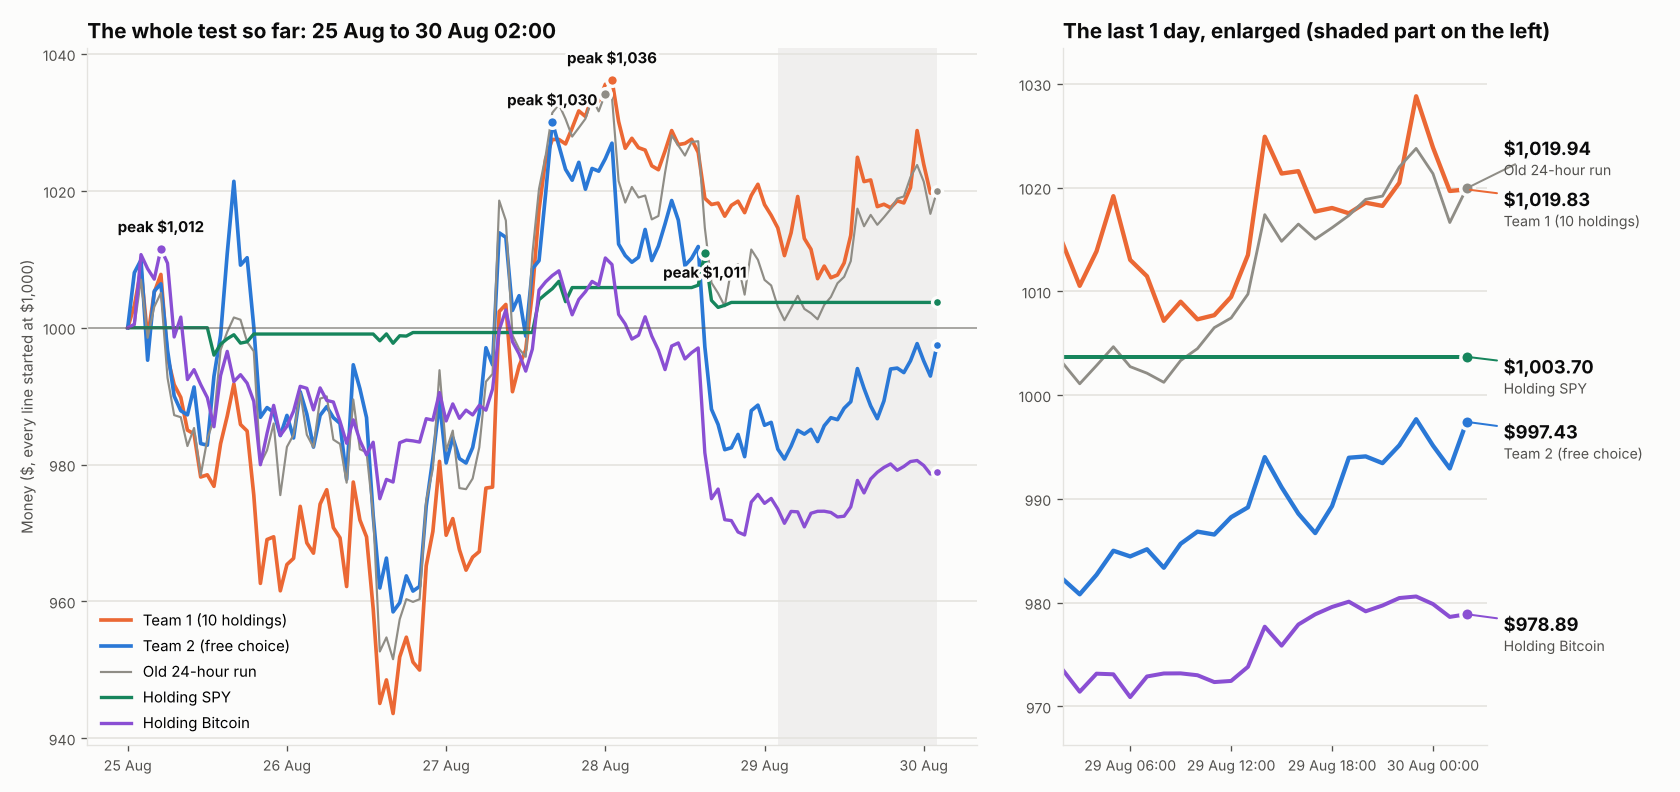
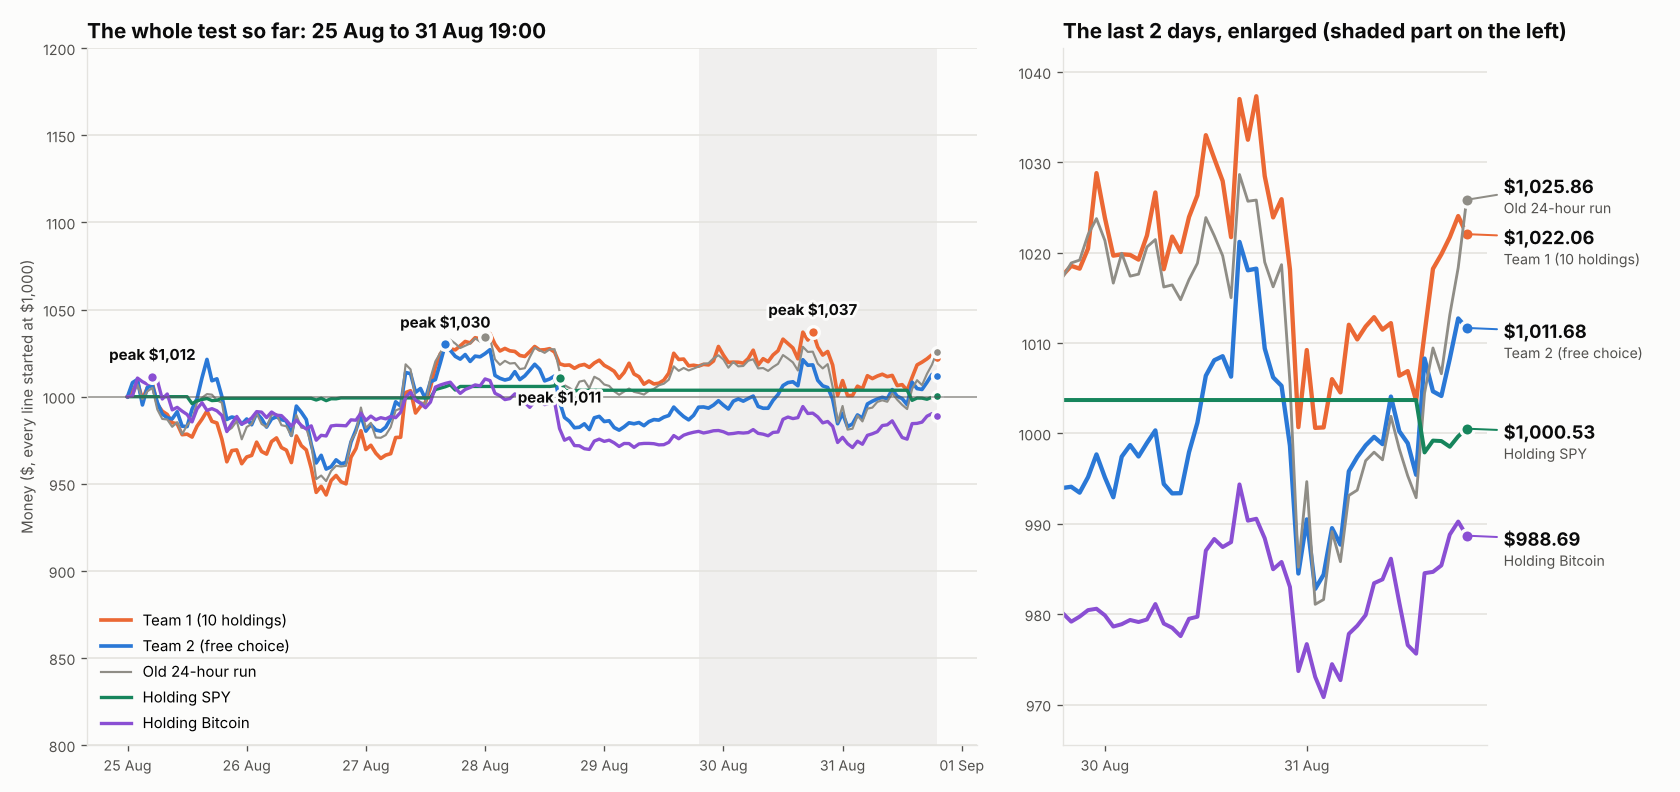
Update graph: fixed minimum scale so small moves look small; save answers
Claude-Session: https://claude.ai/code/session_01Q4zuW2hFjpzuH9a9JaFPqg

diff --git a/mixed/update_chart.py b/mixed/update_chart.py
@@ -84,6 +84,8 @@ def main():
         a2.annotate(name, (end, val), xytext=(end + timedelta(hours=ZOOM_DAYS * 2.2), y - (zhi - zlo) * 0.036),
                     textcoords="data", fontsize=8.5, color=INK2, va="center", annotation_clip=False)
     a1.axhline(1000, color=INK2, lw=1, alpha=0.5)
+    lo, hi = a1.get_ylim()
+    a1.set_ylim(min(lo, 800), max(hi, 1200))             # never zoom in closer than $800-$1,200: small moves look small
     a1.axvspan(z0, end, color=INK2, alpha=0.07, lw=0)
     a1.set_title(f"The whole test so far: 25 Aug to {end:%d %b %H:%M}", loc="left", fontsize=12.5, color=INK, weight="bold")
     a1.set_ylabel("Money ($, every line started at $1,000)", color=INK2, fontsize=9)
